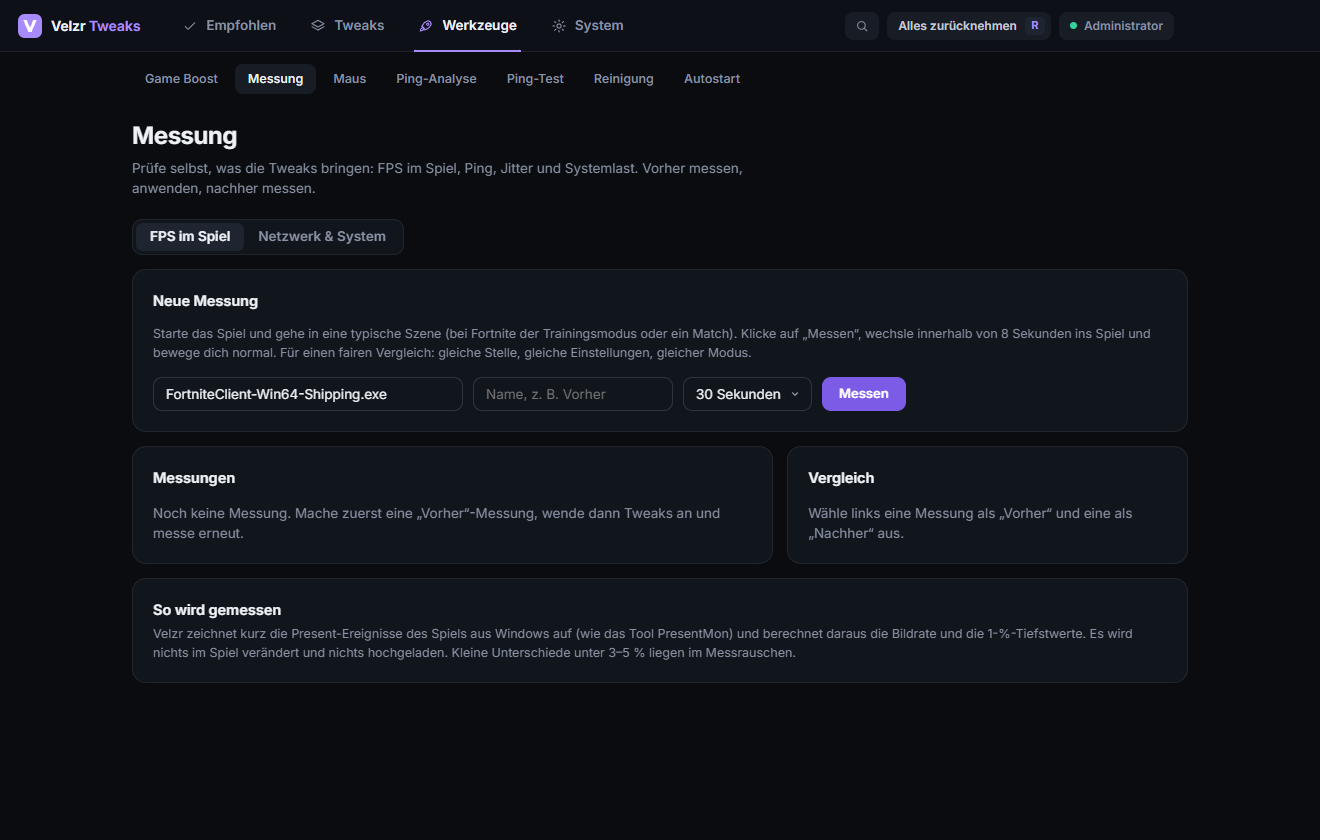
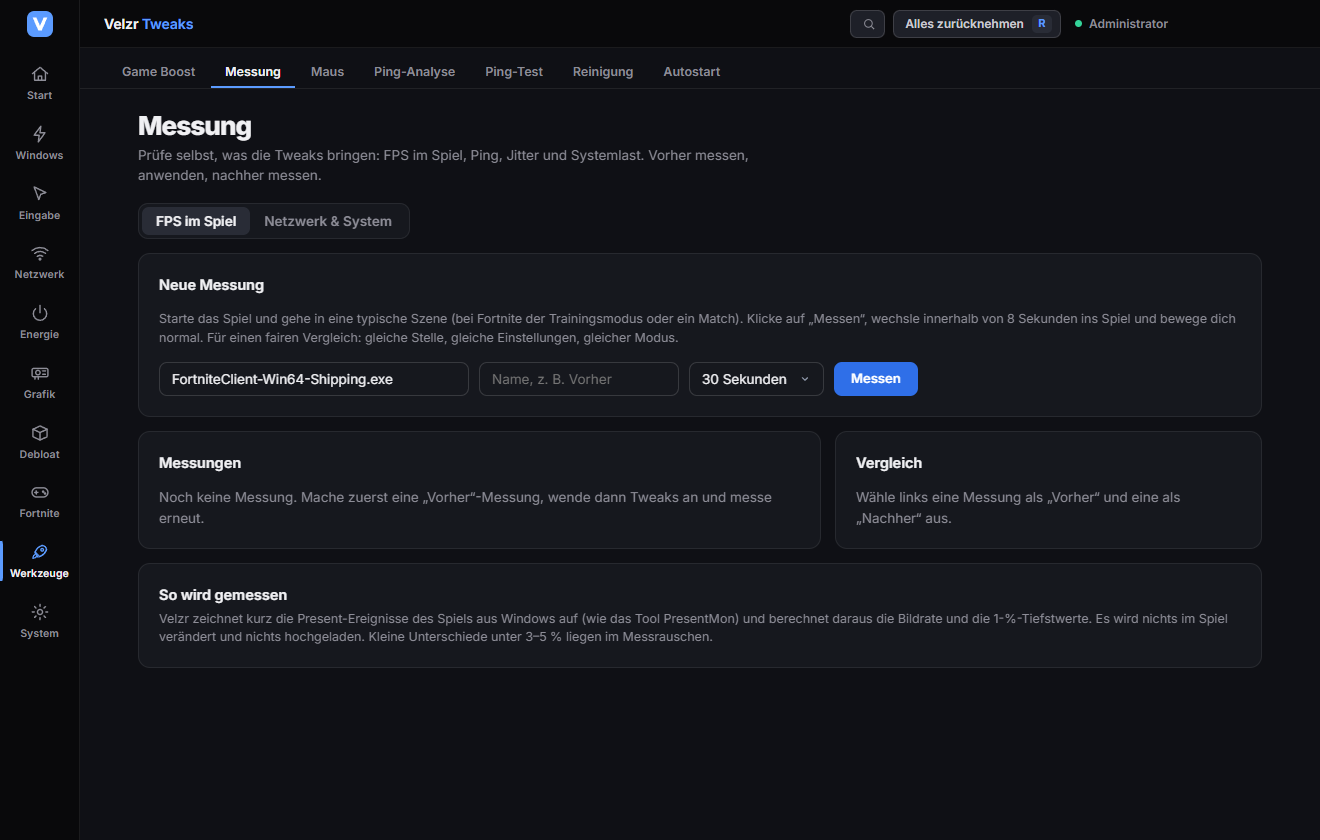
Release 1.4.0: README, Changelog und Screenshots der neuen Oberfläche

diff --git a/README.de.md b/README.de.md
@@ -50,11 +50,11 @@ Die App spricht deine Sprache: Sie startet in der Sprache deines Windows (aktuel
 
 <table>
   <tr>
-    <td width="50%"><img src="docs/screenshots/de/recommended.png" alt="Empfohlen"><br><sub><b>Empfohlen:</b> die Auswahl passend zu deinem PC</sub></td>
-    <td width="50%"><img src="docs/screenshots/de/categories.png" alt="Kategorien"><br><sub><b>Tweaks:</b> übersichtlich nach Kategorien</sub></td>
+    <td width="50%"><img src="docs/screenshots/de/recommended.png" alt="Start"><br><sub><b>Start:</b> ein Knopf optimiert alles, was zu deinem PC passt</sub></td>
+    <td width="50%"><img src="docs/screenshots/de/categories.png" alt="Windows-Tweaks"><br><sub><b>Tweaks:</b> jeder Tweak ist ein Knopf, der leuchtet, wenn er an ist</sub></td>
   </tr>
   <tr>
-    <td><img src="docs/screenshots/de/tweak-list.png" alt="Tweak-Liste"><br><sub><b>Jeder Tweak</b> erklärt, was er ändert</sub></td>
+    <td><img src="docs/screenshots/de/tweak-list.png" alt="Netzwerk-Tweaks"><br><sub><b>Gruppiert</b> danach, wie gut sie zu deinem PC passen</sub></td>
     <td><img src="docs/screenshots/de/game-boost.png" alt="Game Boost"><br><sub><b>Game Boost:</b> automatische Optimierung beim Spielstart</sub></td>
   </tr>
   <tr>
@@ -65,14 +65,14 @@ Die App spricht deine Sprache: Sie startet in der Sprache deines Windows (aktuel
 
 ## Was drin ist
 
-- **Empfohlen:** Auswahl nach deiner Hardware, „Sicheres Setup“ als Assistent, Ein-Tasten-Undo.
-- **Über 140 Tweaks** in 8 Kategorien: Leistung, Eingabe und Latenz, Netzwerk, Energie, Grafik, Debloat, Datenschutz, Oberfläche. Gruppiert danach, ob sie zu deinem System passen.
+- **Start:** Ein Knopf, „Alles optimieren“, wendet alle sinnvollen Tweaks für deinen PC an. „Sicheres Setup“ ist die geführte Variante, Rückgängig geht mit einer Taste.
+- **Über 100 Tweaks** in 7 Kategorien: Windows, Eingabe und Latenz, Netzwerk, Energie, Grafik, Debloat, Fortnite. Jeder Tweak ist ein Knopf, der in deiner Akzentfarbe leuchtet, wenn er aktiv ist. Gruppiert danach, ob sie zu deinem System passen; Tweaks ohne messbaren Effekt auf Tempo, Latenz oder Hintergrundlast sind nicht enthalten.
 - **FPS-Messung** in jedem Spiel (wie PresentMon), mit Durchschnitt, 1 % Low und 0,1 % Low.
 - **Ping-Analyse:** zerlegt deinen Ping in WLAN, Internet-Strecke und Verhalten unter Last (Bufferbloat), mit Befund und Vorher/Nachher-Vergleich.
 - **Game Boost:** erhöht die Priorität deines Spiels, hält die feine Timer-Auflösung und beendet auf Wunsch Hintergrundprogramme, solange das Spiel läuft.
 - **Hardware-Tipps:** Die App zeigt auch, was Software nicht lösen kann, zum Beispiel Single-Channel-RAM oder ein nicht aktiviertes EXPO-Profil.
 - **Windows-Updates:** Setzt ein Update Einstellungen zurück, bietet die App „Erneut anwenden“ an.
-- **Windows 10 und 11:** Tweaks, die es nur unter Windows 11 gibt, werden unter Windows 10 ausgeblendet.
+- **Windows 10 und 11:** Die App erkennt beim Start deine Windows-Version und bietet nur Tweaks an, die dazu passen. Unterstützt werden Windows 10 ab Version 2004 (Build 19041) und Windows 11. Auf älteren Versionen und Windows Server zeigt die App nur Informationen und ändert nichts.
 - **Für schwache PCs:** Leichtmodus, sparsame Hintergrundlast, passende Empfehlungen.
 - **Deine Sprache:** folgt automatisch der Windows-Sprache, in den Einstellungen umstellbar.
 - Dazu Reinigung, Autostart-Verwaltung, Maus-Werkzeuge und Profile zum Exportieren.
@@ -81,7 +81,7 @@ Die App spricht deine Sprache: Sie startet in der Sprache deines Windows (aktuel
 
 1. **[Velzr-Tweaks-Setup herunterladen](https://github.com/xDJMLx/Velzr-Tweaks/releases/latest)** (Datei `Velzr-Tweaks-Setup-<Version>.exe`).
 2. Ausführen. Windows zeigt eine Warnung, weil der Installer nicht digital signiert ist: **„Weitere Informationen“ → „Trotzdem ausführen“**. Die Administrator-Abfrage bestätigen, sie ist nötig, weil die App Systemeinstellungen ändert.
-3. Im Tab **Empfohlen** auf **„Sicheres Setup“** klicken. Die App legt einen Wiederherstellungspunkt an und wendet die Auswahl an.
+3. Auf **Start** auf **„Alles optimieren“** (oder **„Sicheres Setup“** für die geführte Variante) klicken. Die App legt einen Wiederherstellungspunkt an und wendet die Auswahl an.
 4. Neu starten, spielen, mit der **Messung** prüfen.
 
 Nicht zufrieden? **„Alles zurücknehmen“** (Taste **R**) oder einfach deinstallieren.
@@ -115,7 +115,7 @@ Der Installer ist nicht digital signiert (ein Zertifikat kostet Geld). Windows w
 <details>
 <summary><b>Läuft das unter Windows 10?</b></summary>
 
-Ja. Die App erkennt die Windows-Version und zeigt nur Tweaks, die dazu passen. Unter Einstellungen → Kompatibilität steht, welche Tweaks zu deinem PC passen und warum der Rest ausgeblendet ist.
+Ja, ab Windows 10 Version 2004 (Build 19041). Die App erkennt beim Start die Windows-Version und zeigt nur Tweaks, die dazu passen. Ältere Windows-Versionen und Windows Server werden nicht unterstützt: Dort ändert die App nichts. Unter Einstellungen → Kompatibilität steht, welche Tweaks zu deinem PC passen und warum der Rest ausgeblendet ist.
 </details>
 
 <details>

diff --git a/README.md b/README.md
@@ -50,11 +50,11 @@ The app speaks your language: it starts in the language of your Windows installa
 
 <table>
   <tr>
-    <td width="50%"><img src="docs/screenshots/recommended.png" alt="Recommended"><br><sub><b>Recommended:</b> the selection that fits your PC</sub></td>
-    <td width="50%"><img src="docs/screenshots/categories.png" alt="Categories"><br><sub><b>Tweaks:</b> clearly organized by category</sub></td>
+    <td width="50%"><img src="docs/screenshots/recommended.png" alt="Home"><br><sub><b>Home:</b> one button optimizes everything that fits your PC</sub></td>
+    <td width="50%"><img src="docs/screenshots/categories.png" alt="Windows tweaks"><br><sub><b>Tweaks:</b> every tweak is a button that lights up when it is on</sub></td>
   </tr>
   <tr>
-    <td><img src="docs/screenshots/tweak-list.png" alt="Tweak list"><br><sub><b>Every tweak</b> explains what it changes</sub></td>
+    <td><img src="docs/screenshots/tweak-list.png" alt="Network tweaks"><br><sub><b>Grouped</b> by how well they fit your PC</sub></td>
     <td><img src="docs/screenshots/game-boost.png" alt="Game Boost"><br><sub><b>Game Boost:</b> automatic optimization when a game starts</sub></td>
   </tr>
   <tr>
@@ -65,14 +65,14 @@ The app speaks your language: it starts in the language of your Windows installa
 
 ## What's inside
 
-- **Recommended:** a selection based on your hardware, "Safe setup" as a guided wizard, one-key undo.
-- **Over 140 tweaks** in 8 categories: performance, input and latency, network, power, graphics, debloat, privacy, interface. Grouped by whether they fit your system.
+- **Home:** one button, "Optimize everything", applies every useful tweak for your PC. "Safe setup" is the guided version, undo is one key.
+- **Over 100 tweaks** in 7 categories: Windows, input and latency, network, power, graphics, debloat, Fortnite. Each tweak is a button that lights up in your accent color when it is on. Grouped by whether they fit your system; tweaks without a measurable effect on speed, latency or background load are not included.
 - **FPS measurement** in any game (like PresentMon), with average, 1 % low and 0.1 % low.
 - **Ping analysis:** breaks your ping down into Wi-Fi, internet path and behavior under load (bufferbloat), with findings and a before/after comparison.
 - **Game Boost:** raises the priority of your game, holds the fine timer resolution and, if you like, closes background programs while the game runs.
 - **Hardware tips:** the app also shows what software cannot fix, for example single-channel RAM or a disabled EXPO profile.
 - **Windows updates:** if an update resets settings, the app offers "Apply again".
-- **Windows 10 and 11:** tweaks that only exist on Windows 11 are hidden on Windows 10.
+- **Windows 10 and 11:** the app detects your Windows version at start and only offers tweaks that fit it. Supported: Windows 10 version 2004 (build 19041) and newer, and Windows 11. On older versions or Windows Server the app only shows information and changes nothing.
 - **For weak PCs:** lite mode, low background load, fitting recommendations.
 - **Your language:** follows the Windows language automatically, switchable in Settings.
 - Plus cleanup, startup manager, mouse tools and profiles you can export.
@@ -81,7 +81,7 @@ The app speaks your language: it starts in the language of your Windows installa
 
 1. **[Download the Velzr Tweaks setup](https://github.com/xDJMLx/Velzr-Tweaks/releases/latest)** (file `Velzr-Tweaks-Setup-<version>.exe`).
 2. Run it. Windows shows a warning because the installer is not digitally signed: **"More info" → "Run anyway"**. Confirm the administrator prompt; it is needed because the app changes system settings.
-3. On the **Recommended** tab click **"Safe setup"**. The app creates a restore point and applies the selection.
+3. On **Home** click **"Optimize everything"** (or **"Safe setup"** for the guided version). The app creates a restore point and applies the selection.
 4. Restart, play, and check the result with **Measurement**.
 
 Not happy? **"Revert all"** (key **R**) or simply uninstall.
@@ -115,7 +115,7 @@ The installer is not digitally signed (a certificate costs money), so Windows wa
 <details>
 <summary><b>Does it run on Windows 10?</b></summary>
 
-Yes. The app detects the Windows version and only shows tweaks that fit it. Under Settings → Compatibility you can see which tweaks fit your PC and why the rest is hidden.
+Yes, from Windows 10 version 2004 (build 19041) on. The app detects the Windows version at start and only shows tweaks that fit it. Older Windows versions and Windows Server are not supported: there the app changes nothing. Under Settings → Compatibility you can see which tweaks fit your PC and why the rest is hidden.
 </details>
 
 <details>

diff --git a/CHANGELOG.md b/CHANGELOG.md
@@ -1,5 +1,15 @@
 # Changelog
 
+## 1.4.0
+
+- **New interface:** icon rail on the left, every tweak is a button that lights up in your accent color. One "Optimize everything" button on Home applies all useful tweaks for your PC. Calmer neutral colors, no blur or mouse-light effects, lighter animations.
+- **Fewer, better tweaks:** 39 tweaks with no measurable effect on speed, latency or background load were removed (pure cosmetics, privacy-only switches, placebo tweaks). Tweaks for specific problems or hardware now sit in their own group.
+- Categories are now Windows, Input & latency, Network, Power, Graphics, Debloat and Fortnite.
+- **Windows check at start:** the app shows whether you run Windows 10 or 11 and how many tweaks fit. Supported: Windows 10 from version 2004 (build 19041) and Windows 11. Older versions, Windows Server and unknown versions are read-only: nothing is applied.
+- "Optimize everything" no longer touches tweaks that change visible behavior (Windows search, Remote Desktop, DNS, visual effects) and, on laptops, tweaks that shorten battery life. They stay available as single buttons.
+- Flat buttons without 3D effect, softer glow, smoother and more uniform animations.
+- The free trial and license system were removed: Velzr Tweaks is free, download it from GitHub.
+
 ## 1.3.1
 
 - **More languages:** French, Portuguese (Brazil), Russian, Polish and Turkish join English, German and Spanish. The app picks the language of your Windows installation automatically.
